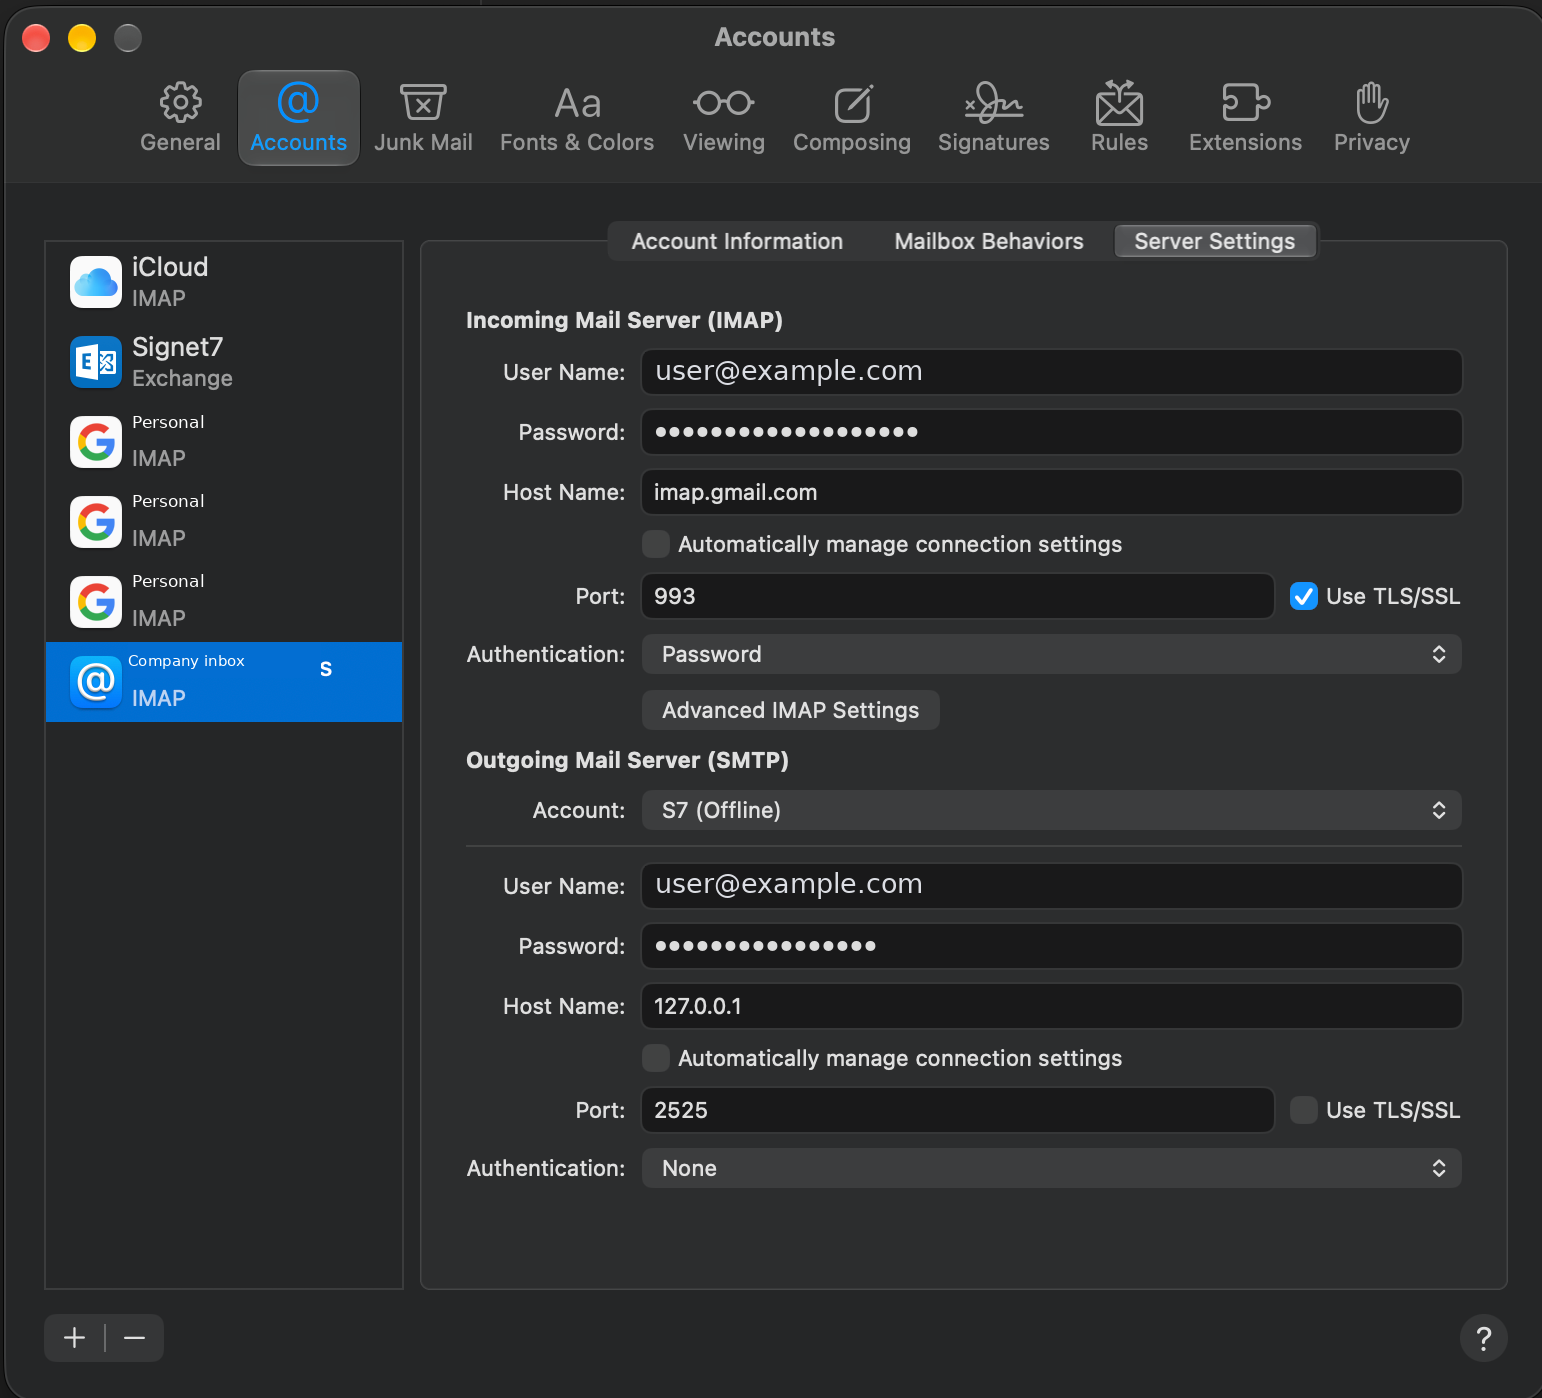
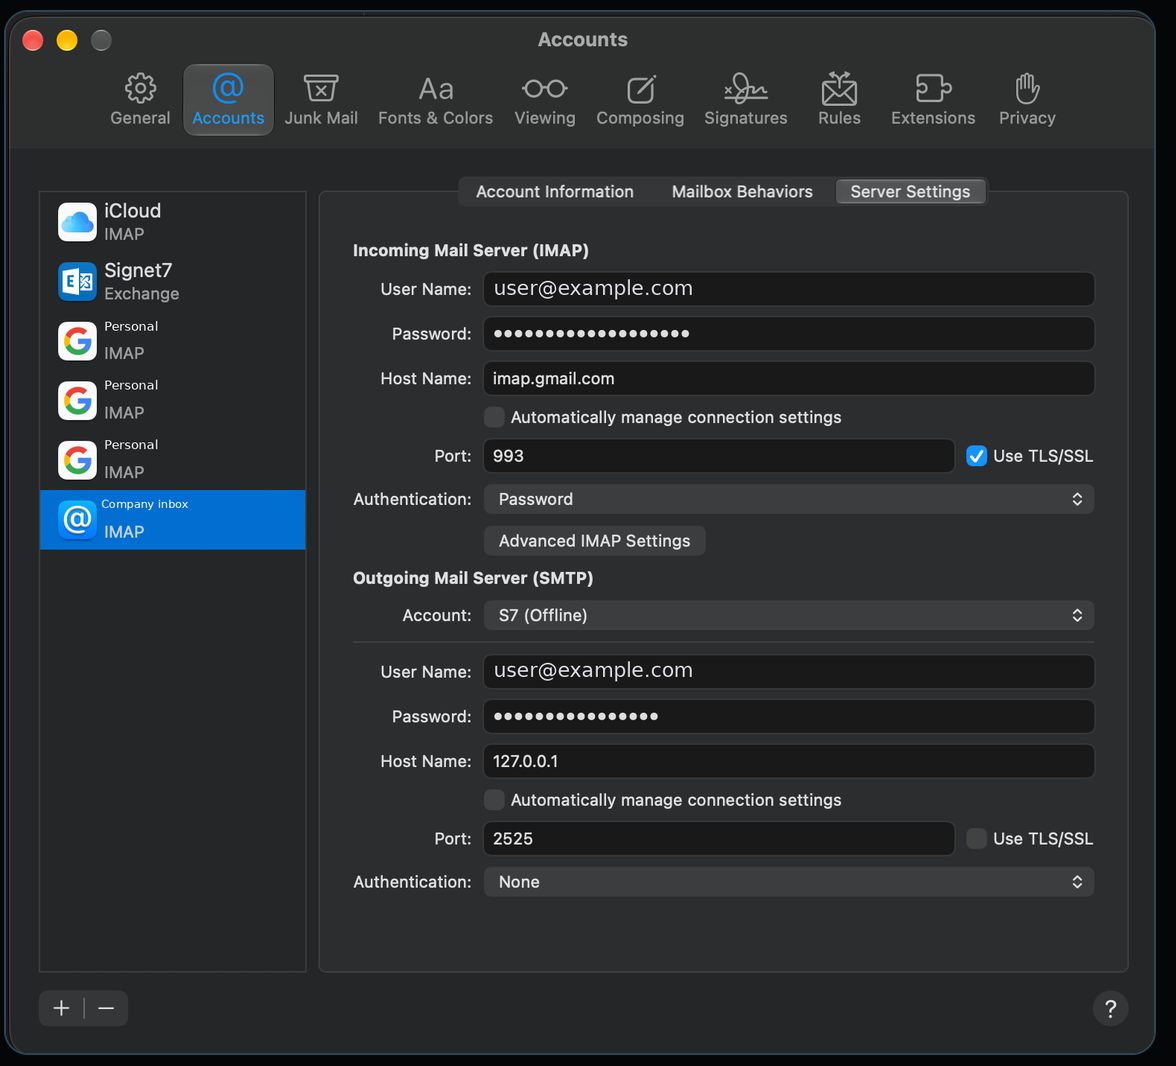
docs: clean Apple Mail screenshot artifacts (S + sidebar boxes)
Follow-up to #230: remove stray Server Settings glyph and clean Add Account sidebar redaction (wipe stops at divider).

diff --git a/tools/sanitize_apple_mail_doc_figures.py b/tools/sanitize_apple_mail_doc_figures.py
@@ -16,11 +16,19 @@ _CAPTURE_COMMIT = "e2213ca"
 
 SIDEBAR_BG = (37, 38, 39)
 SIDEBAR_TITLE = (255, 255, 255)
-# Text column only — left edge aligns with Mail account titles (right of icon tiles).
+# Text column — left edge aligns with Mail account titles (right of icon tiles).
 SIDEBAR_TEXT_X0 = 128
 SIDEBAR_TEXT_X1 = 320
+# Accounts sidebar ends before the Add Account modal (1554×1398 capture).
+SIDEBAR_DIVIDER_X = 301
+SIDEBAR_TAIL_X0 = SIDEBAR_TEXT_X0
+SIDEBAR_TAIL_X1 = SIDEBAR_DIVIDER_X - 1
+# Empty sidebar strip between Signet7 and the first Personal row (chrome reference).
+SIDEBAR_CHROME_REF_Y = 390
 SELECTED_TEXT_X0 = 128
-SELECTED_TEXT_X1 = 320
+SELECTED_TITLE_Y0 = 642
+SELECTED_TITLE_Y1 = 677
+SELECTED_BLUE_REF_Y = 658
 
 FONT_PATHS = (
     "/usr/share/fonts/truetype/dejavu/DejaVuSans.ttf",
@@ -66,6 +74,21 @@ def _paint_field(
     draw.text((x0 + 10, y0 + (y1 - y0 - font_size) // 2 - 2), text, fill=(220, 222, 228), font=font)
 
 
+def _sidebar_chrome_strip(im: Image.Image) -> Image.Image:
+    """One scanline of sidebar chrome, one pixel per column (no redaction in ref row)."""
+    return im.crop((SIDEBAR_TAIL_X0, SIDEBAR_CHROME_REF_Y, SIDEBAR_DIVIDER_X, SIDEBAR_CHROME_REF_Y + 1))
+
+
+def _selection_blue_strip(im: Image.Image) -> Image.Image:
+    """One scanline of the selected-row blue through the sidebar text column."""
+    return im.crop((SIDEBAR_TAIL_X0, SELECTED_BLUE_REF_Y, SIDEBAR_DIVIDER_X, SELECTED_BLUE_REF_Y + 1))
+
+
+def _paste_strip_band(im: Image.Image, strip: Image.Image, y0: int, y1: int) -> None:
+    band = strip.resize((strip.width, y1 - y0 + 1), Image.Resampling.NEAREST)
+    im.paste(band, (SIDEBAR_TAIL_X0, y0))
+
+
 def _label_in_band(
     draw: ImageDraw.ImageDraw,
     box: tuple[int, int, int, int],
@@ -84,10 +107,10 @@ def _label_in_band(
 
 
 def _repaint_selected_company_inbox(im: Image.Image, draw: ImageDraw.ImageDraw) -> None:
-    """Wipe the full title band on the selected row; leave the IMAP subtitle intact."""
-    y0, y1 = 642, 677
-    blue = im.getpixel((250, 694))[:3]
-    draw.rectangle([SELECTED_TEXT_X0, y0, SELECTED_TEXT_X1, y1], fill=blue)
+    """Wipe the title band on the selected row; leave the IMAP subtitle intact."""
+    y0, y1 = SELECTED_TITLE_Y0, SELECTED_TITLE_Y1
+    _paste_strip_band(im, _selection_blue_strip(im), y0, y1)
+    draw = ImageDraw.Draw(im)
     text = "Company inbox"
     font = _font(15)
     bbox = draw.textbbox((0, 0), text, font=font)
@@ -100,18 +123,18 @@ def _repaint_selected_company_inbox(im: Image.Image, draw: ImageDraw.ImageDraw) 
 def _repaint_personal_account(
     draw: ImageDraw.ImageDraw,
     im: Image.Image,
+    chrome_strip: Image.Image,
     *,
-    wipe_y0: int,
-    wipe_y1: int,
     label_y0: int,
     label_y1: int,
 ) -> None:
-    """Clear title + leftover name smudges; redraw Personal; keep IMAP subtitle."""
-    bg = im.getpixel((240, wipe_y0 + 2))[:3]
-    draw.rectangle([SIDEBAR_TEXT_X0, wipe_y0, SIDEBAR_TEXT_X1, wipe_y1], fill=bg)
+    """Clear title-band smudges through the sidebar edge; redraw Personal; keep IMAP subtitle."""
+    _paste_strip_band(im, chrome_strip, label_y0, label_y1)
+    draw = ImageDraw.Draw(im)
+    bg = im.getpixel((200, SIDEBAR_CHROME_REF_Y))[:3]
     _label_in_band(
         draw,
-        (128, label_y0, SIDEBAR_TEXT_X1 - 4, label_y1),
+        (128, label_y0, SIDEBAR_TAIL_X1, label_y1),
         "Personal",
         fill=bg,
         font_size=17,
@@ -119,16 +142,11 @@ def _repaint_personal_account(
 
 
 def _sanitize_sidebar(im: Image.Image) -> None:
+    chrome_strip = _sidebar_chrome_strip(im)
     draw = ImageDraw.Draw(im)
-    _repaint_personal_account(
-        draw, im, wipe_y0=407, wipe_y1=449, label_y0=407, label_y1=433
-    )
-    _repaint_personal_account(
-        draw, im, wipe_y0=486, wipe_y1=529, label_y0=486, label_y1=512
-    )
-    _repaint_personal_account(
-        draw, im, wipe_y0=566, wipe_y1=609, label_y0=566, label_y1=592
-    )
+    _repaint_personal_account(draw, im, chrome_strip, label_y0=407, label_y1=433)
+    _repaint_personal_account(draw, im, chrome_strip, label_y0=486, label_y1=512)
+    _repaint_personal_account(draw, im, chrome_strip, label_y0=566, label_y1=592)
     _repaint_selected_company_inbox(im, draw)
 
 
